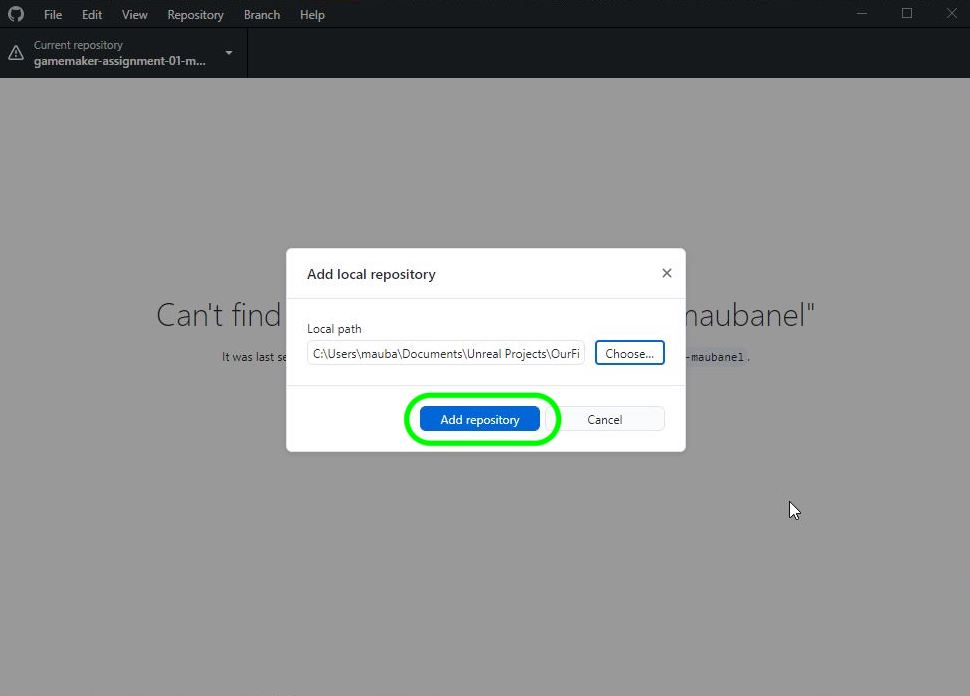
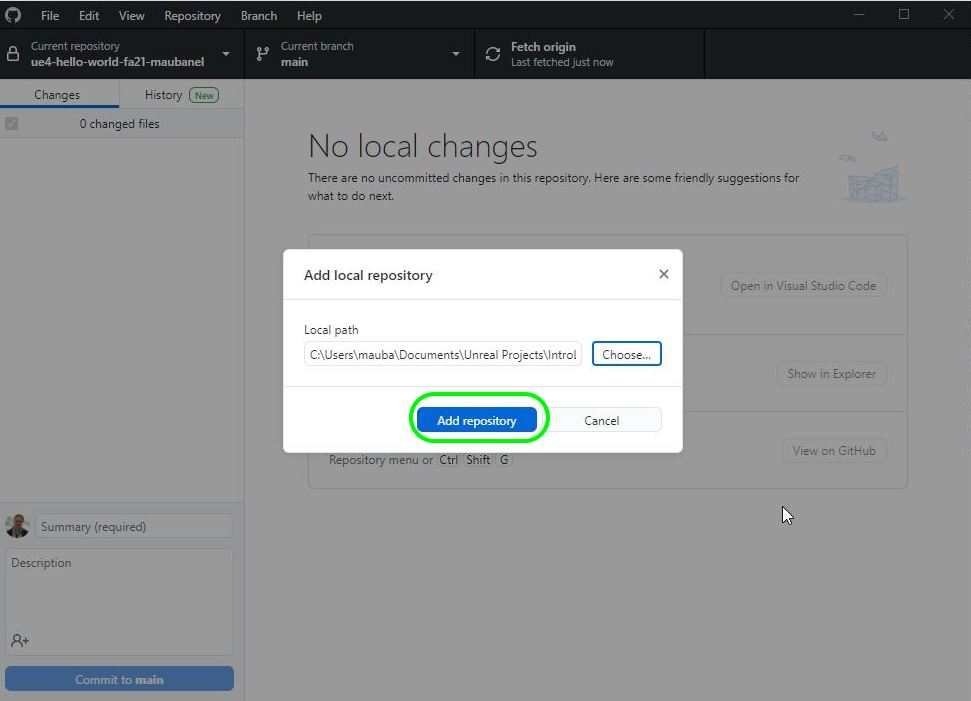
updating old walk through

diff --git a/setting-up/README.md b/setting-up/README.md
@@ -208,9 +208,16 @@ Locate the root folder of your project.  This is the folder that contains the `.
 
 ##### `Step 21.`\|`SUU&G`| :large_blue_diamond: :large_blue_diamond: :small_blue_diamond:
 
-Press the <kbd>Add Repository</kbd> button to select this project. Then press the <kbd>Fetch origin</kbd> button to make sure that the permissions all work. You should see the message `Last feteched just now`. This means that we are ready to go.
+Press the <kbd>Add Repository</kbd> button to select this project. Then press the <kbd>Fetch origin</kbd> button to make sure that the permissions all work. 
+
+You will get a pop up asking to **Initialize Git LFS** you will press the <kbd>Accept</kbd> button.
+
+You should now see the message `Last feteched just now`. This means that we are ready to go. 
 
 ![add repository](images/AddRepository.jpg)
+
+![initialize git lfs](images/InitializeGitLFS.jpg)
+
 
 <img src="https://via.placeholder.com/500x2/45D7CA/45D7CA" alt="drawing" height="2px" alt = ""/>
 
